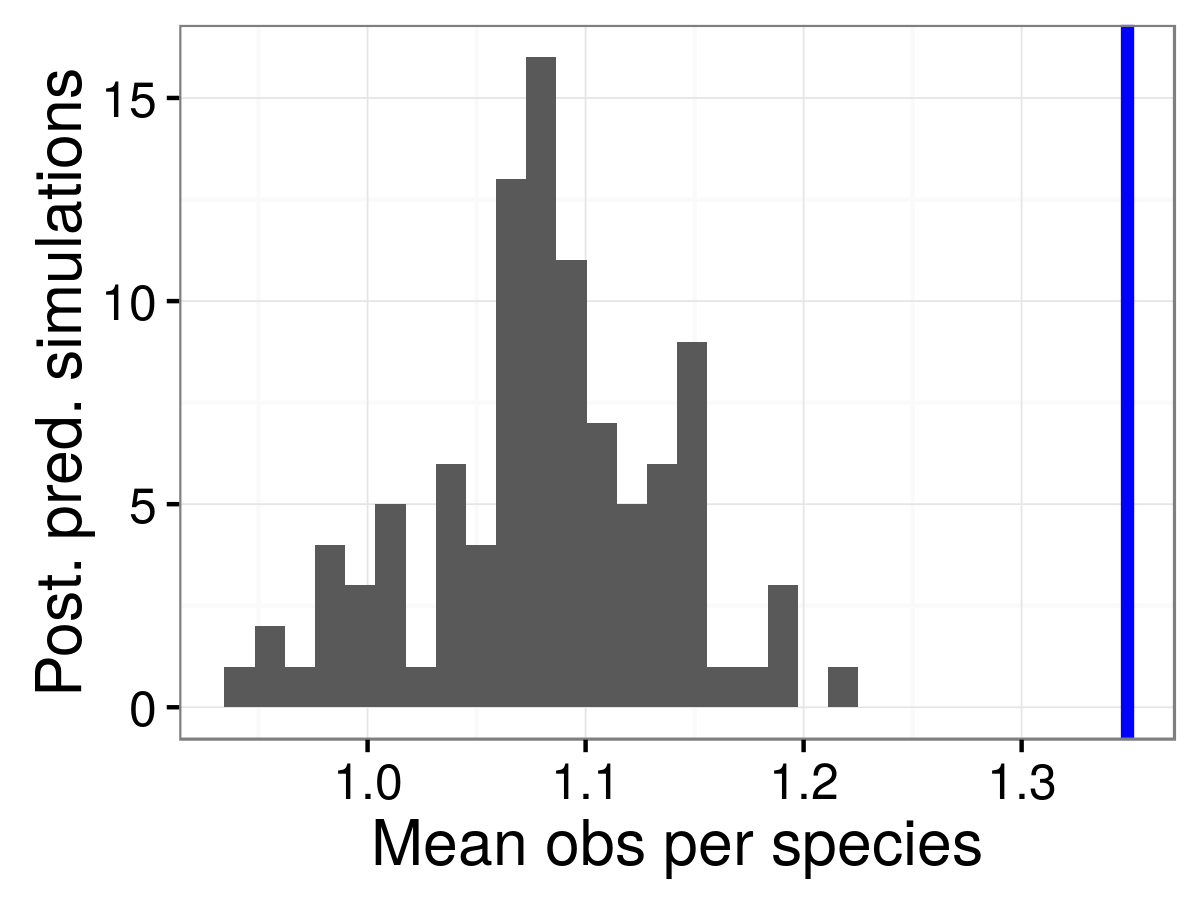
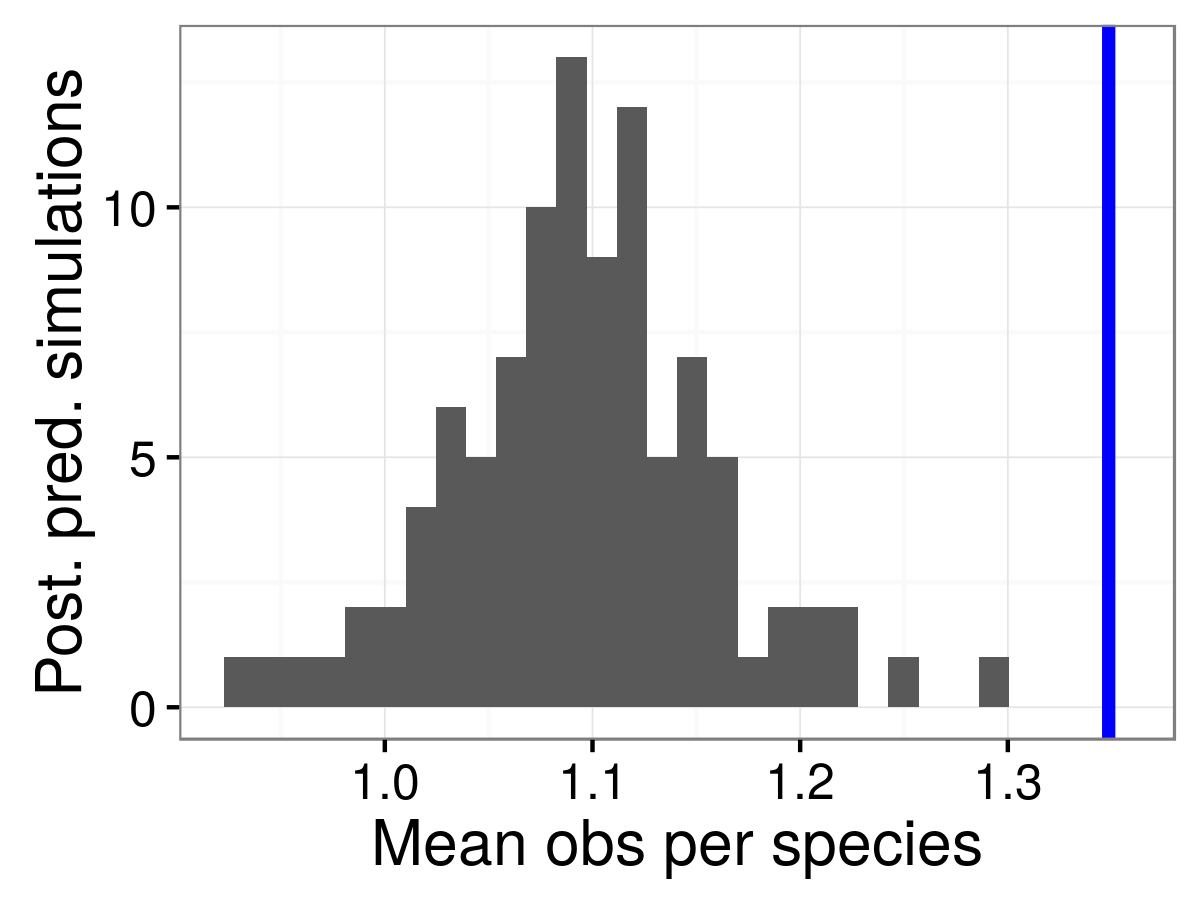
made sure excluding hawaii

diff --git a/doc/methods.tex b/doc/methods.tex
@@ -15,7 +15,7 @@
 
 \subsection*{Taxon occurrence information}
 
-%https://paleobiodb.org/data1.2/occs/list.csv?datainfo&rowcount&base_name=Mammalia&taxon_reso=species&interval=Maastrichtian,Gelasian&cc=NOA&show=class,genus,ecospace,strat,stratext,lith,acconly
+%https://paleobiodb.org/data1.2/occs/list.csv?datainfo&rowcount&base_name=Mammalia&taxon_reso=species&interval=Maastrichtian,Gelasian&cc=NOA&show=class,genus,ecospace,loc,strat,stratext,lith,acconly
 
 Taxon occurrence information was downloaded from the Paleobiology Database on May 1st 2016. Occurrences were restricted to all Mammalia between the Maastrichtian and Gelasian stages and  the North American continent. These occurrences were then further programatically restricted from the Danian through the Gelasian. The taxonomic and stratigraphic metadata for each occurrence, such as life habit and dietary category, was also downloaded. From this base downloaded some taxa were further excluded by their taxonomic and life habit information. Specifically, both volant and aquatic mammals along with the orders and families associated with those life habits were excluded. 
 
